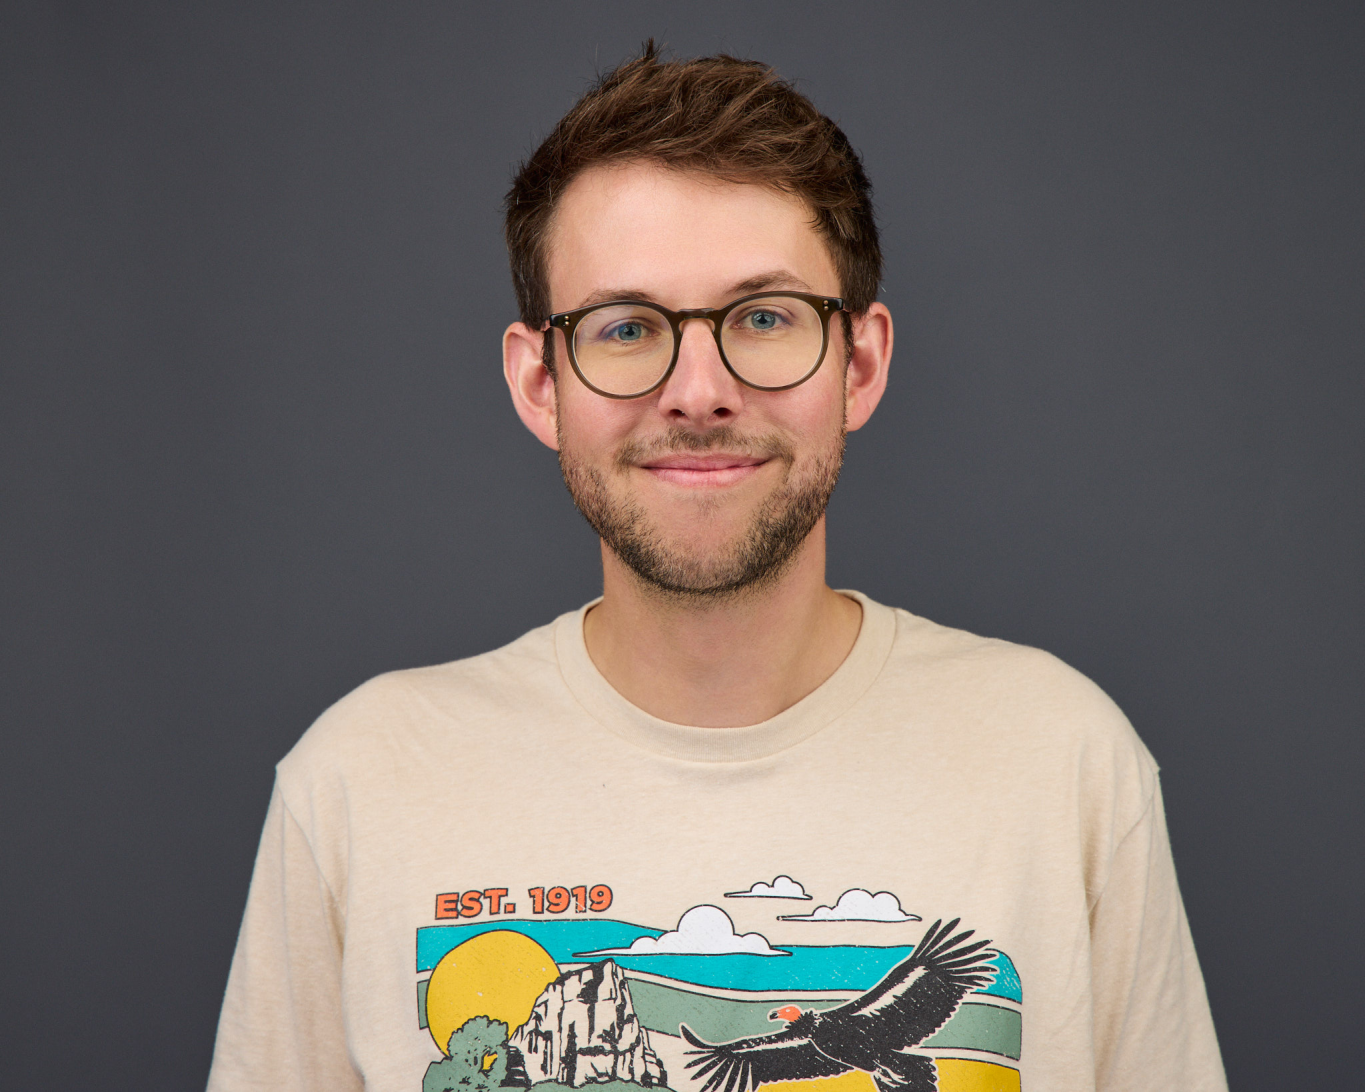
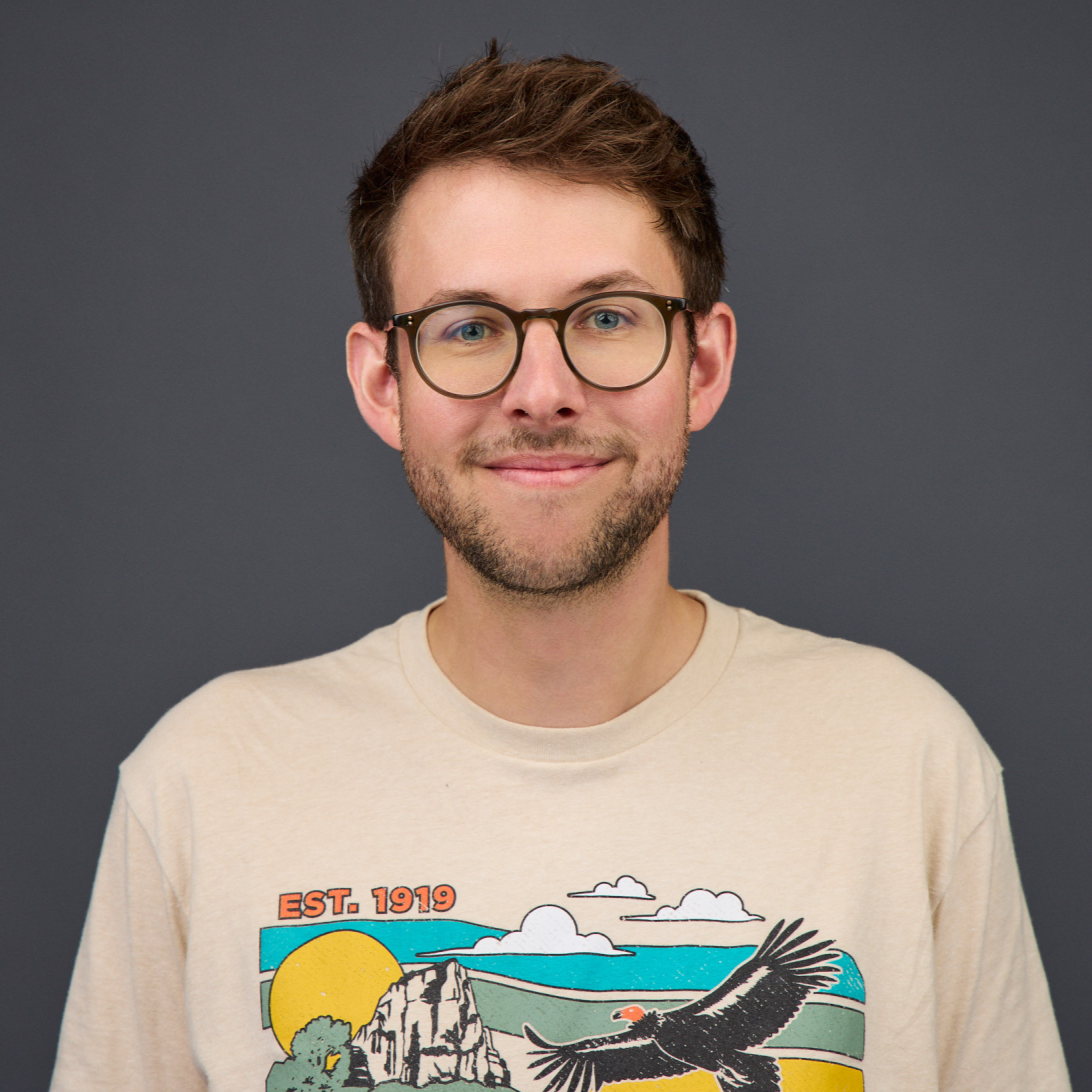
Update

Changed region(s): [[0.0311, 0.0311, 0.9963, 1.0], [0.467, 0.6538, 0.4982, 0.685]]

diff --git a/_publications/35_Thomas_TempCali.md b/_publications/35_Thomas_TempCali.md
@@ -1,0 +1,17 @@
+---
+title: "On the Kinetics of Collision-induced Back-Isomerization of Photoisomer Ions"
+collection: publications
+category: submitted
+permalink: /publication/35_Thomas_TempCali
+excerpt: 'Understanding and quantifying activation parameters associated with the gas-phase isomerization kinetics of stereoisomeric ions, such as Z- and E-azobenzene ions, remains a key challenge in modern mass spectrometry. Here, we explore collisional activation as a fast and efficient method to probe isomerization kinetics on QToF instruments equipped with travelling wave-ion mobility spectrometry (TWIMS), such as the Waters Synapt platform.'
+#date: 2026-02-01 #!! Comment if submitted !!
+#venue: 'Nature Chemistry' #!! Comment if submitted !!
+#slidesurl: 'http://academicpages.github.io/files/slides1.pdf'
+#paperurl: 'https://chemrxiv.org/doi/full/10.26434/chemrxiv.15002305/v1'
+#bibtexurl: 'http://qduez.github.io/files/31_ZnCages_cIMS.bib'
+#imgurl: '/files/30_NatureChem_Enzymes.png'
+citation: 'Thomas Robert, Gwendal Henrard, Benjamin Tassignon, Quentin Duez, Julien De Winter, Philippe Dugourd, Fabien Chirot, and Pascal Gerbaux. (2026). &quot;On the Kinetics of Collision-induced Back-Isomerization of Photoisomer Ions.&quot; <i>Submitted</i>'
+---
+
+Abstract:
+TEST